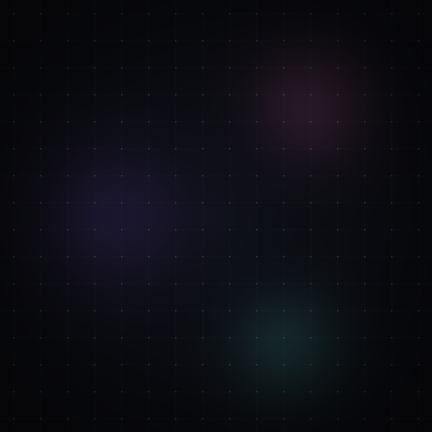
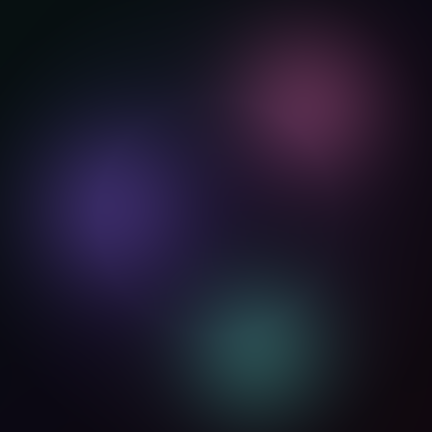
docs: 加强图标背景的极光层次
- 纯色底改为对角暗色渐变 + 粉/紫/青三色极光
- 96/160px 下能明显看出颜色层次，24px 仍以 C 为主
- 主图、Android 背景、鸿蒙背景与尺寸验证图同步更新

diff --git a/docs/design/app-icon/generate.py b/docs/design/app-icon/generate.py
@@ -85,43 +85,43 @@ def ring_image(size: int, scale: float = 1.0, ss: int = 4, white: bool = False) 
 
 
 def background_rgb(px: int) -> np.ndarray:
-    """深色底 + 极淡的极光与节点网格；保持小尺寸下只剩柔光。"""
+    """深色底 + 三色极光渐变；在 96/160px 下也能看出颜色层次。"""
     yy, xx = np.mgrid[0:px, 0:px].astype(np.float32)
     cx = cy = px / 2.0
     dx = (xx - cx) / (px / 2.0)
     dy = (yy - cy) / (px / 2.0)
     radius = np.sqrt(dx * dx + dy * dy)
 
-    image = np.empty((px, px, 3), dtype=np.float32)
-    image[:] = np.array(BG, dtype=np.float32)
-
-    # 中心轻微提亮，避免纯黑底显得像被挖空。
-    lift = np.clip(1.0 - radius, 0.0, 1.0) ** 2
-    image += lift[..., None] * np.array([5.0, 6.0, 10.0], dtype=np.float32)
+    # 沿左上到右下的暗色渐变，让背景不再是纯黑一片。
+    t = np.clip((dx * 0.55 + dy * 0.55 + 1.0) / 2.0, 0.0, 1.0)
+    stops = (
+        (0.0, (14, 42, 40)),
+        (0.5, (27, 18, 48)),
+        (1.0, (42, 18, 34)),
+    )
+    field = np.stack(
+        [
+            np.interp(t, [s[0] for s in stops], [s[1][i] for s in stops])
+            for i in range(3)
+        ],
+        axis=-1,
+    ).astype(np.float32)
+    image = np.array(BG, dtype=np.float32) + (field - np.array(BG, dtype=np.float32)) * 0.55
 
     glows = (
-        (0.72, 0.24, 0.40, (244, 114, 182), 0.13),
-        (0.27, 0.50, 0.48, (139, 92, 246), 0.12),
-        (0.66, 0.80, 0.38, (94, 234, 212), 0.12),
+        (0.73, 0.22, 0.55, (244, 114, 182), 0.34),
+        (0.25, 0.48, 0.60, (139, 92, 246), 0.32),
+        (0.60, 0.83, 0.52, (94, 234, 212), 0.30),
     )
     for gx, gy, spread, color, strength in glows:
         distance = np.sqrt((dx - (gx * 2 - 1)) ** 2 + (dy - (gy * 2 - 1)) ** 2)
-        weight = np.exp(-(distance / spread) ** 2 * 2.2)
+        weight = np.exp(-(distance / spread) ** 2 * 2.0)
         alpha = (weight * strength)[..., None]
         image = image * (1.0 - alpha) + np.array(color, dtype=np.float32) * alpha
 
-    # 节点网格：线 3.5% 透明度，节点 15%；缩到 24px 时只剩一点纹理。
-    step = px / 16.0
-    grid_x = np.abs((xx % step) - step / 2.0)
-    grid_y = np.abs((yy % step) - step / 2.0)
-    lines = (grid_x < px * 0.00055) | (grid_y < px * 0.00055)
-    nodes = (grid_x * grid_x + grid_y * grid_y) < (px * 0.0019) ** 2
-    image[lines] = image[lines] * 0.965 + np.array([150.0, 160.0, 210.0]) * 0.035
-    image[nodes] = image[nodes] * 0.85 + np.array([200.0, 210.0, 255.0]) * 0.15
-
     # 边缘压暗，保证圆角/裁切后仍有层次。
-    edge = np.clip((radius - 0.62) / 0.55, 0.0, 1.0)
-    image *= (1.0 - 0.38 * edge[..., None])
+    edge = np.clip((radius - 0.55) / 0.60, 0.0, 1.0)
+    image *= (1.0 - 0.42 * edge[..., None])
     return np.clip(image, 0.0, 255.0).astype(np.uint8)
 
 

diff --git a/docs/design/app-icon/README.md b/docs/design/app-icon/README.md
@@ -2,11 +2,11 @@
 
 ## 方案
 「纯 C」：一条粗笔画、圆头的开口环，开口朝右，形成字母 C；颜色沿弧线从青绿走到粉，
-深色圆角底承托。前景不放任何附加元素；背景叠了很淡的三色极光和 16×16 节点网格，
-缩到 24px 时网格基本消失，只剩柔光，不会和 C 抢注意力。
+深色圆角底承托。前景不放任何附加元素；背景是深色底上的三色极光渐变，
+在 96/160px 下能明显看出颜色层次，但不会和 C 抢注意力。
 
 本轮实现改成 **角度渐变 + 形状遮罩** 绘制，不再逐段画线，因此缩放后不会出现
-放射状条纹；背景纹理也由同一个生成脚本输出。
+放射状条纹；背景极光也由同一个生成脚本输出。
 
 ## 几何
 - 画布 1024×1024，圆角半径 22.5%（230）。
@@ -19,7 +19,7 @@
 - 底：#0A0B10
 - 渐变：#5EEAD4（0%）→ #8B5CF6（50%）→ #F472B6（100%），沿弧线角度线性插值。
 - 端点圆头沿用端点色，避免圆头与弧线之间出现色差接缝。
-- 背景：三处低透明度极光（粉/紫/青）+ 3.5% 网格线 + 15% 节点点，边缘压暗。
+- 背景：深色底上叠三处低透明度极光（粉/紫/青），加一条对角暗色渐变，边缘压暗。
 
 ## 交付尺寸
 - 主图：1024×1024（应用商店、关于页）。
